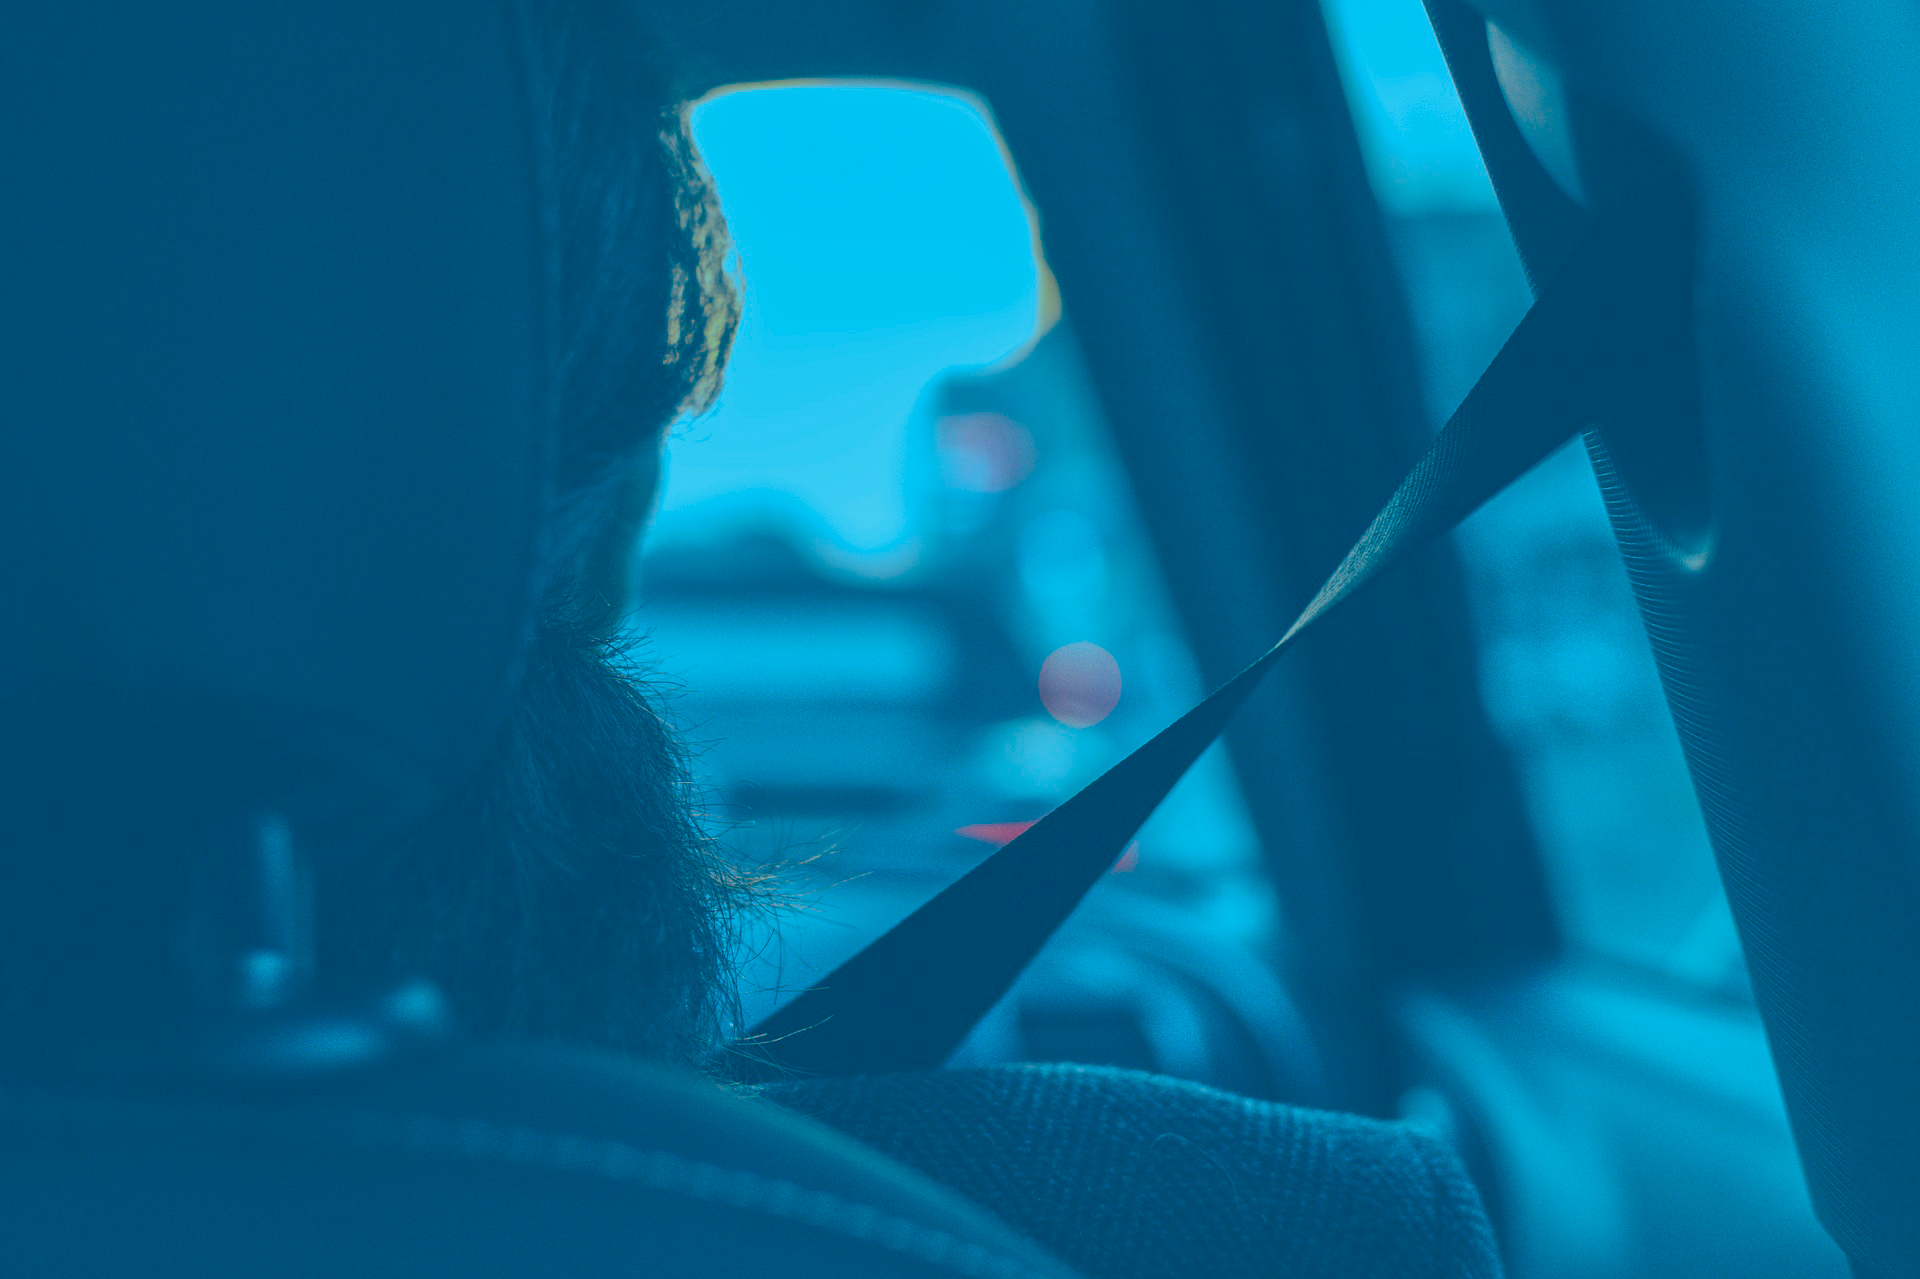
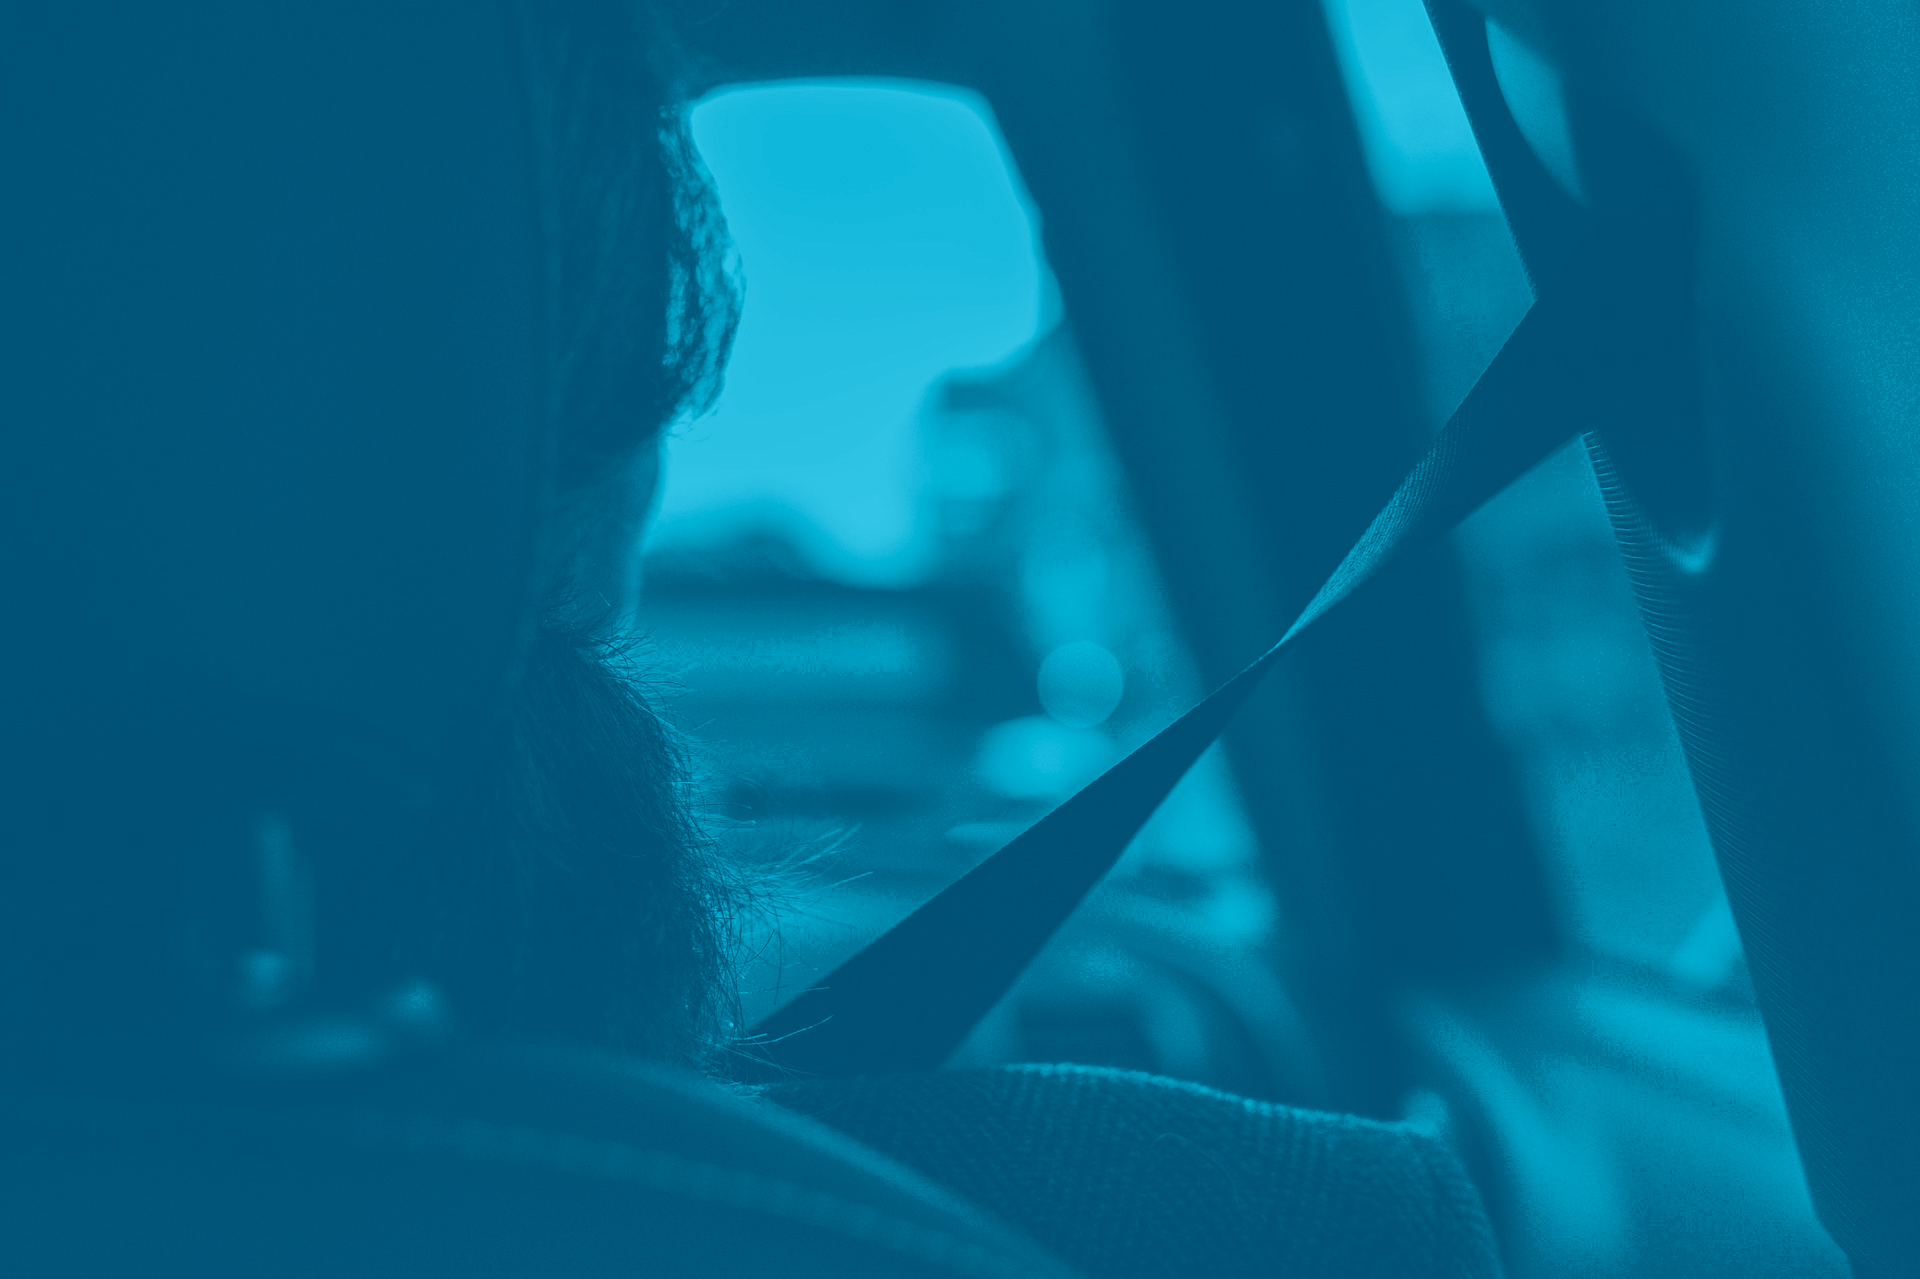
Atualizando passageiro

diff --git a/passageiro.html b/passageiro.html
@@ -78,8 +78,7 @@
 		</div>
 	</nav>
 
-	<header id="fh5co-header" class="fh5co-cover fh5co-cover-sm" role="banner" style="background-image:url(images/img_bg_2.jpg);">
-		<div class="overlay"></div>
+	<header id="fh5co-header" class="fh5co-cover fh5co-cover-sm" role="banner" style="background-image:url(images/passageiros-capa.jpg);">
 		<div class="container">
 			<div class="row">
 				<div class="col-md-8 col-md-offset-2 text-center">
